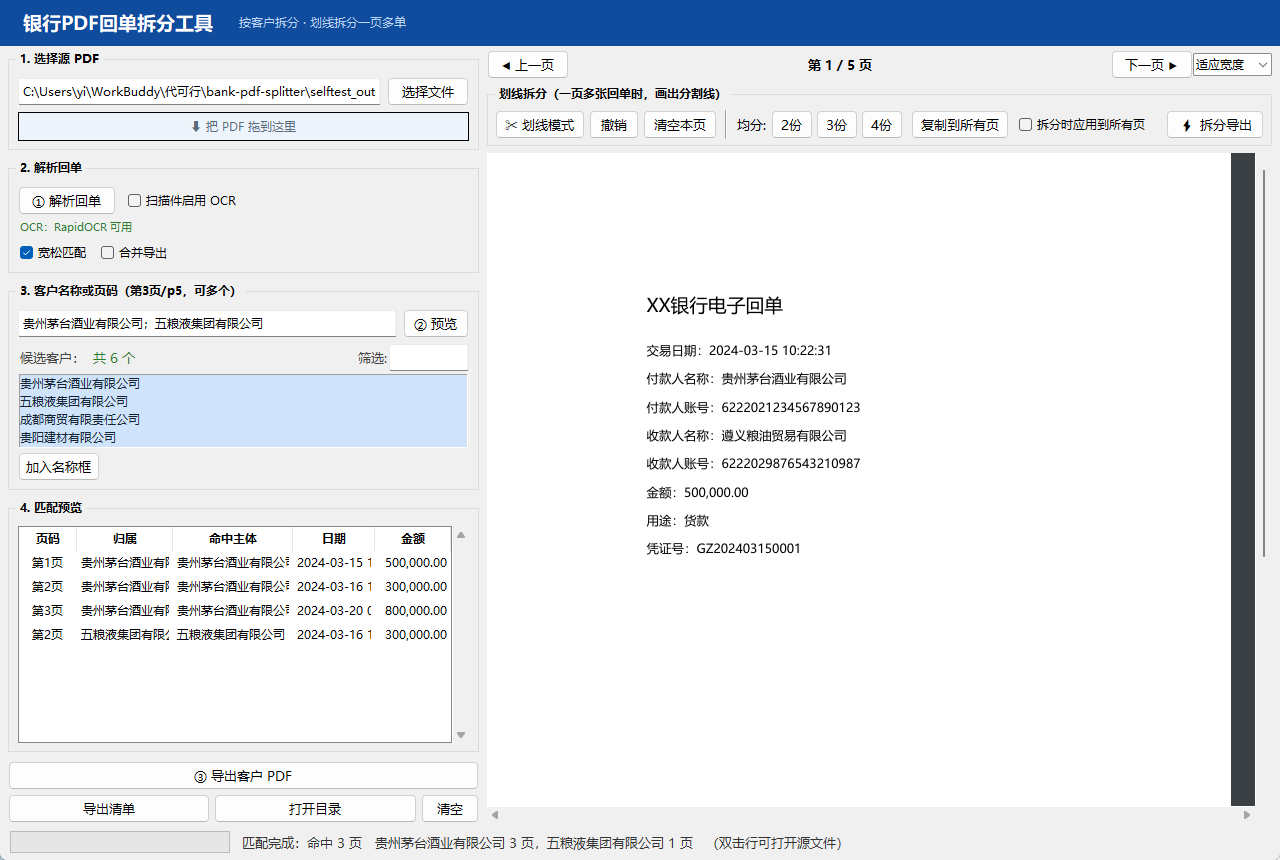
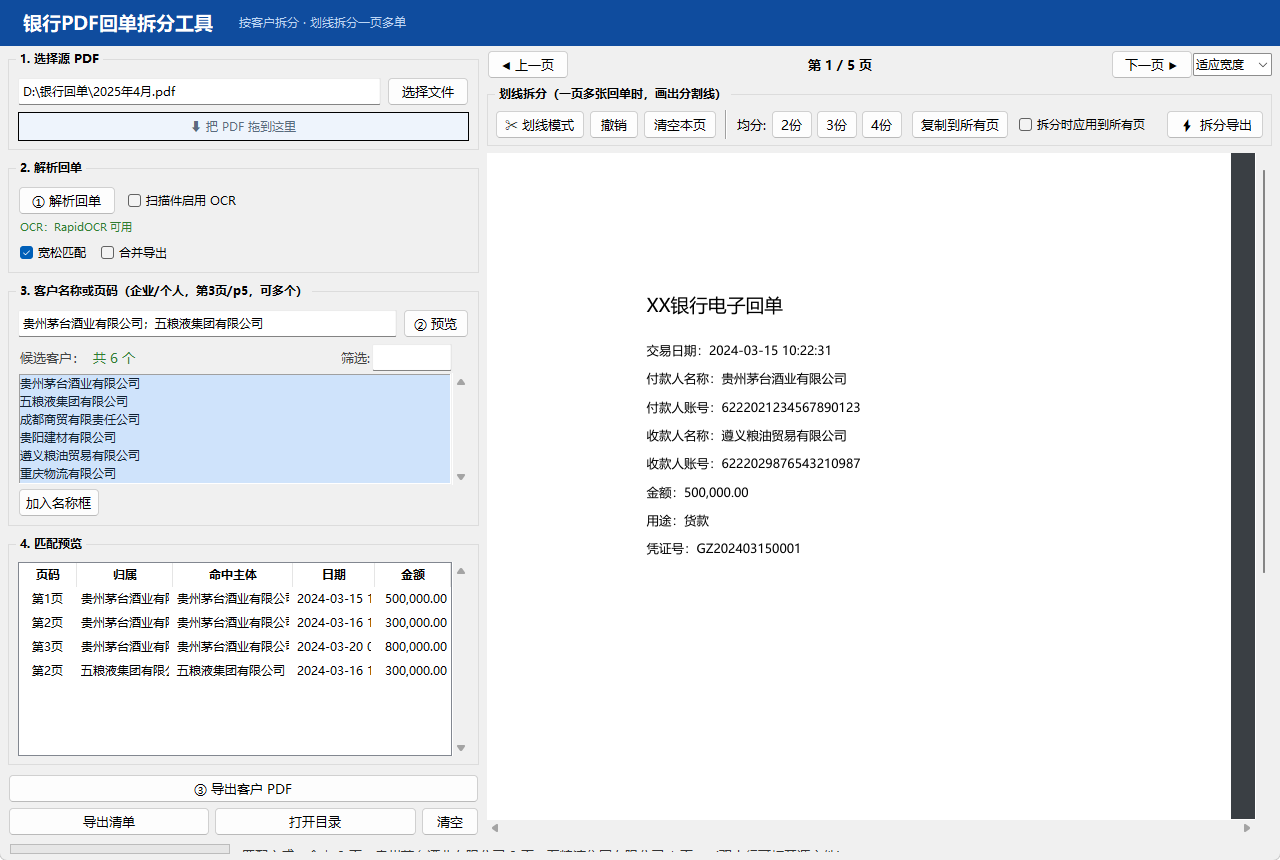
提交安全加固；候选列表适配大量主体；文档补充个人名支持
- .gitignore 从逐文件列名改为模式兜底：数据文件（pdf/xlsx/csv 等）、
  测试与辅助脚本（*test*/*demo*/*screenshot*）、截图（白名单仅放行
  ui_preview.png）、本地工单默认全部禁止，新文件自动屏蔽
- README/SPEC：说明客户名支持企业与个人、位置解析兜底要点、名称被
  源 PDF 文本框裁剪时的匹配行为
- 界面：候选客户列表加滚动条与滚轮（长周期回单候选可达上千条），
  分组标题注明「企业/个人」
- README 演示图重新生成，本机真实路径替换为中性示例路径

diff --git a/main.py b/main.py
@@ -238,7 +238,7 @@ class App(_AppBase):
         ttk.Checkbutton(opts, text='合并导出', variable=self.merge_one).pack(side='left', padx=(10, 0))
 
         # 3. 客户名称
-        box3 = ttk.LabelFrame(side, text=' 3. 客户名称或页码（第3页/p5，可多个） ', padding=8)
+        box3 = ttk.LabelFrame(side, text=' 3. 客户名称或页码（企业/个人，第3页/p5，可多个） ', padding=8)
         box3.grid(row=2, column=0, sticky='ew', pady=(8, 0))
         box3.columnconfigure(0, weight=1)
         qrow = ttk.Frame(box3)
@@ -259,11 +259,17 @@ class App(_AppBase):
         ttk.Entry(ch, textvariable=self.filter_text, width=10).pack(side='right')
         ttk.Label(ch, text='筛选:', foreground='#444').pack(side='right')
         self.filter_text.trace_add('write', lambda *_: self._refresh_candidates())
-        self.cand_list = tk.Listbox(cand, selectmode='extended', height=4,
+        self.cand_list = tk.Listbox(cand, selectmode='extended', height=6,
                                     font=(UI_FONT, 9), activestyle='none',
                                     exportselection=False,
                                     selectbackground='#cfe3fb', selectforeground='#123')
         self.cand_list.grid(row=1, column=0, sticky='ew', pady=(2, 0))
+        # 候选可能上千条（一页含收付双方 + 长周期导出），配滚动条与滚轮
+        cand_scroll = ttk.Scrollbar(cand, orient='vertical', command=self.cand_list.yview)
+        cand_scroll.grid(row=1, column=1, sticky='ns', pady=(2, 0))
+        self.cand_list.config(yscrollcommand=cand_scroll.set)
+        self.cand_list.bind('<MouseWheel>',
+                            lambda e: self.cand_list.yview_scroll(-1 * (e.delta // 120), 'units'))
         self.cand_list.bind('<Double-Button-1>', self._on_cand_double_click)
         ttk.Button(cand, text='加入名称框', width=9, command=self._use_selected)\
             .grid(row=2, column=0, sticky='w', pady=(3, 0))

diff --git a/SPEC.md b/SPEC.md
@@ -40,6 +40,18 @@ main.py                 GUI 层（Tkinter）
 完全相等 → 互相包含 → 宽松模式下忽略括号内容再比一次。
 空主体 / 空查询词一律不命中（修复 v1 的 `'' in s` 恒真缺陷）。
 
+**主体可以是企业，也可以是个人**：个人姓名与公司名同走一套提取与匹配逻辑，
+不按名称后缀过滤。姓名多为 2~4 字，在回单上比公司名短、在文本框里居中更靠右，
+因此标签到值的间距阈值按「值在框内居中」放宽（`_LABEL_VALUE_GAP`），
+避免短名被整体丢弃。
+
+**位置解析兜底**（`positional_parse`）：部分回单的标签与值不是同行紧邻写法
+（标签两字被拉开成「户 名」、值与标签相距数十 pt），纯文本正则无法命中，
+此时按词坐标解析：按 y 聚行 → 行内识别（含拆字）标签 → 取同行右侧为值。要点：
+- 值可能是被框裁剪的残名，属源文件限制
+- 侧边竖排的「本行账户」「对方账户」逐字与横向文字同行，需按 x 列识别并剔除，
+  否则会被吞进值，产出「XX公司对户名YY公司」这类粘连名称
+
 ## 5. 关键语义决定
 
 **同一页同时属于多个客户时**（A 付款给 B）：

diff --git a/README.md b/README.md
@@ -2,7 +2,8 @@
 
 从银行导出的 PDF 回单中，按客户名称拆分出指定客户的回单页面并另存为新 PDF；  
 一页 A4 打印了 2/3 张回单时，还可在预览图上划线，把每张回单裁切为独立 PDF 页。  
-适配各银行电子回单的常见字段版式（客户名称 / 户名 / 付款人 / 收款人 等）。
+适配各银行电子回单的常见字段版式（客户名称 / 户名 / 付款人 / 收款人 等），  
+客户可以是企业，也可以是个人（姓名同样作为候选列出、同样支持匹配）。
 
 ![界面预览](ui_preview.png)
 
@@ -93,3 +94,5 @@ build.bat        # 产物在 dist\ 下
   模糊/倾斜件可能识别不出，此时状态栏会提示）
 - 客户名识别依赖回单上的标准字段标签（客户名称/户名/付款人/收款人等），  
   若银行版式使用生僻字段名，可能识别不到 —— 可手动输入客户名后用预览核对
+- 名称被银行 PDF 本身截断时（文本框放不下，文本层里就是残名），只能按残名匹配；
+  输入更长的全名也能命中（匹配支持互相包含）
